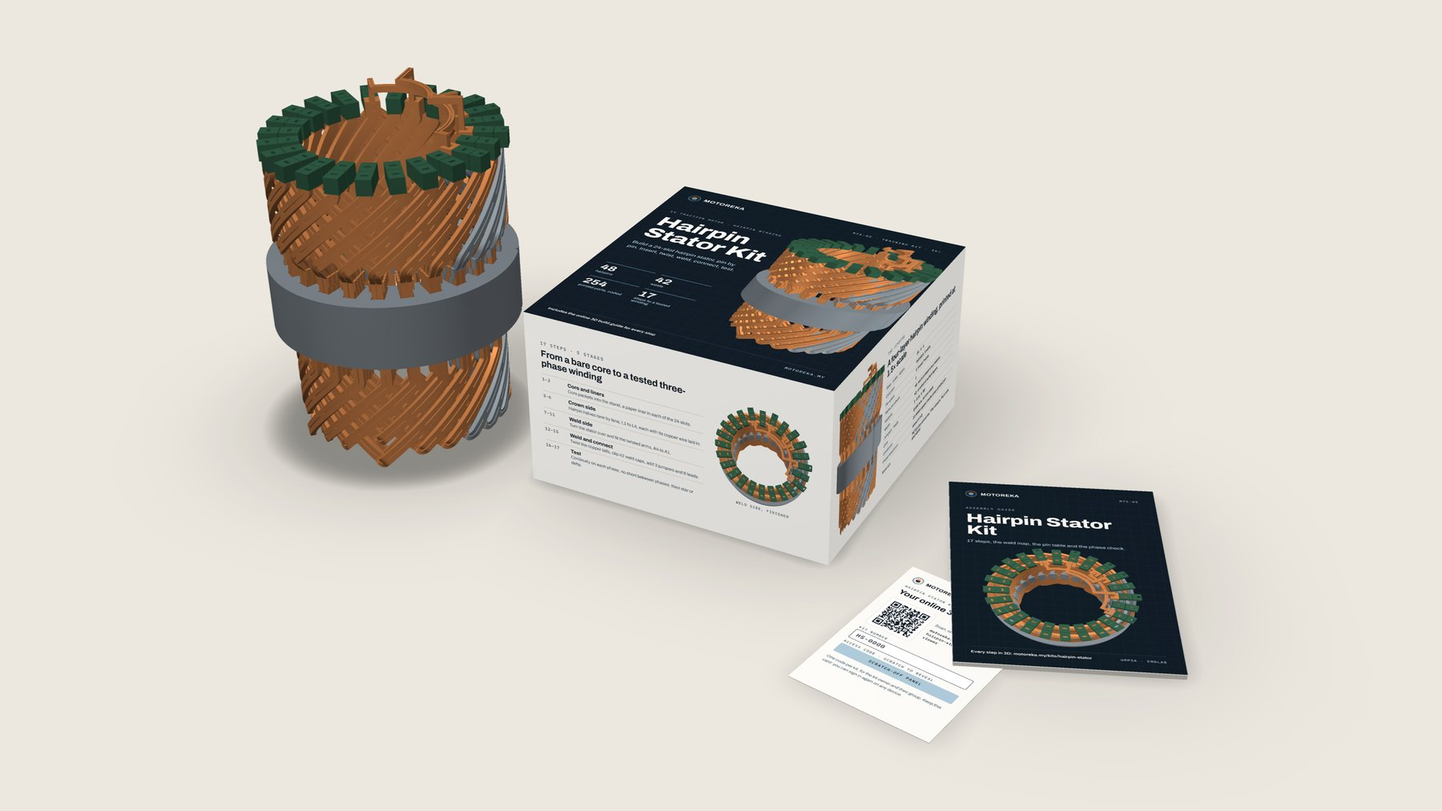
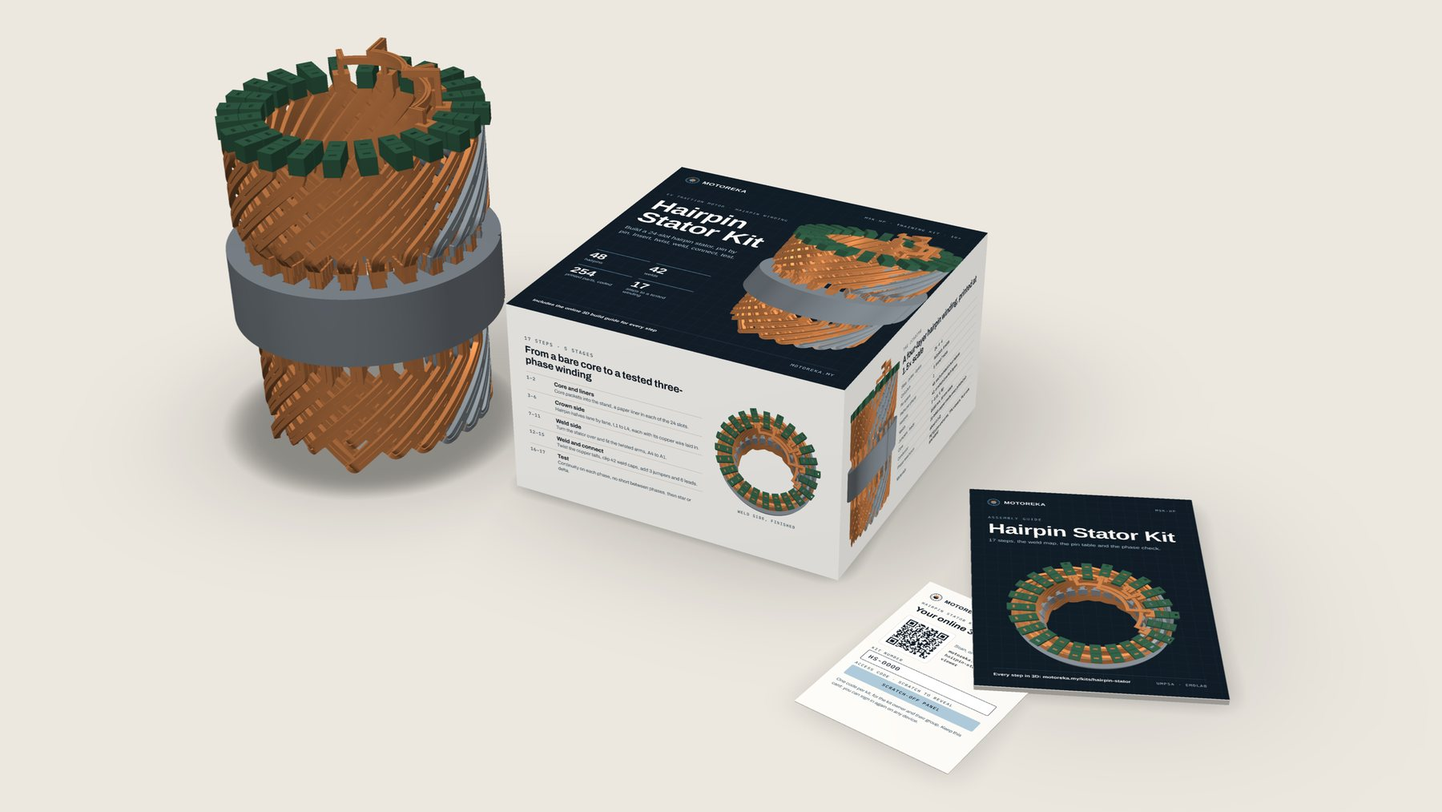
Hairpin Stator Kit: model code MSK-HP on the page and the box renders
Claude-Session: https://claude.ai/code/session_01Y4hstGBD1i6DuW8ib13ShV

Changed region(s): [[0.1244, 0.0306, 0.8711, 0.9496]]

diff --git a/kits/hairpin-stator/index.html b/kits/hairpin-stator/index.html
@@ -22,7 +22,7 @@
 <body><a class="skip" href="#main">Skip to content</a>
 <header class="rail"><div class="wrap"><a class="lockup" href="../../" aria-label="Motoreka home"><svg viewBox="0 0 100 100" width="38" height="38" aria-hidden="true" focusable="false"><circle cx="50" cy="50" r="45.5" fill="none" stroke="#5F8FA8" stroke-width="5"/><g stroke="#5F8FA8" stroke-width="4.6"><line x1="50.00" y1="19.00" x2="50.00" y2="12.00"/><line x1="65.50" y1="23.15" x2="69.00" y2="17.09"/><line x1="76.85" y1="34.50" x2="82.91" y2="31.00"/><line x1="81.00" y1="50.00" x2="88.00" y2="50.00"/><line x1="76.85" y1="65.50" x2="82.91" y2="69.00"/><line x1="65.50" y1="76.85" x2="69.00" y2="82.91"/><line x1="50.00" y1="81.00" x2="50.00" y2="88.00"/><line x1="34.50" y1="76.85" x2="31.00" y2="82.91"/><line x1="23.15" y1="65.50" x2="17.09" y2="69.00"/><line x1="19.00" y1="50.00" x2="12.00" y2="50.00"/><line x1="23.15" y1="34.50" x2="17.09" y2="31.00"/><line x1="34.50" y1="23.15" x2="31.00" y2="17.09"/></g><path d="M28 50a22 22 0 0 1 44 0z" fill="#C0703A"/><path d="M28 50a22 22 0 0 0 44 0z" fill="#5F8FA8"/></svg><span class="word"><b>MOTOREKA</b><span>MOTOR DESIGN · TRAINING · ENGINEERING</span></span></a>
 <nav class="nav" aria-label="Main"><a href="../../induction-motor-trainer/">Induction Motor Trainer</a><span class="nav-dd"><a href="../../ev-traction-motor/" aria-current="page">EV Traction Motor</a><button class="nav-dd-btn" type="button" aria-expanded="false" aria-controls="dd-ev" aria-label="EV Traction Motor: the modules"><svg viewBox="0 0 12 12" width="11" height="11" aria-hidden="true"><path d="M2.5 4.5 6 8l3.5-3.5" fill="none" stroke="currentColor" stroke-width="1.6"/></svg></button><span class="nav-dd-menu" id="dd-ev"><span class="nav-dd-list"><a href="../../ev-traction-motor/#m1"><span class="dd-n m1">M1</span><span>Design it</span><small>Sizing &amp; Design: from the vehicle brief to a FEMM check</small></a><a href="../../ev-traction-motor/hairpin/"><span class="dd-n m2">M2</span><span>Make the stator</span><small>Hairpin Manufacturing: from flat wire to a tested winding</small></a><a href="../../ev-traction-motor/rotor/"><span class="dd-n m3">M3</span><span>Make the rotor</span><small>Magnet Rotor Manufacturing: from oxide to a magnetised rotor</small></a><a href="../../ev-traction-motor/#modules" class="dd-all"><span class="dd-n all">ALL</span><span>The three modules</span></a></span></span></span><a href="../../tools/">Free tools</a><a href="../../work-with-us/">Work with us</a><a href="../../partners/">Partners</a><a class="nav-signin" href="../../sign-in/" title="Course participants and free accounts"><svg viewBox="0 0 16 16" width="13" height="13" aria-hidden="true"><rect x="3" y="7" width="10" height="7" rx="1.5" fill="none" stroke="currentColor" stroke-width="1.5"/><path d="M5.5 7V5a2.5 2.5 0 0 1 5 0v2" fill="none" stroke="currentColor" stroke-width="1.5"/></svg>Sign in</a></nav></div></header>
-<main id="main"><nav class="pathbar" aria-label="EV Traction Motor path"><div class="wrap"><a class="pb-line" href="../../ev-traction-motor/">EV Traction Motor path</a><ol><li><a class="" href="../../ev-traction-motor/#watch">1 Watch</a></li><li><a class="" href="../../ev-traction-motor/#practise">2 Practise</a></li><li><a class="cur" href="../../ev-traction-motor/#learn" aria-current="step">3 Learn in depth · you are here</a></li><li><a class="" href="../../ev-traction-motor/#work">4 Work with us</a></li></ol></div></nav><section class="pagehead"><div class="wrap"><span class="label">EV Traction Motor · Hands-on kit</span><h1>Hairpin Stator Kit</h1><p class="lede">Build a 24-slot, 4-pole hairpin stator from 254 printed parts, with copper wire inside every pin: insert, twist, weld, connect, then test each phase with a multimeter. Every part carries its code, and the online 3D guide plays every step.</p><div class="actions"><a class="btn copper" href="#get">Request a quote</a><a class="btn line" href="#preview">Try the first three steps in 3D</a><a class="btn line" href="viewer/">Kit owners: sign in</a></div></div></section><section class="section kit-hero"><div class="wrap"><figure class="kit-fig"><img src="images/kit-box.jpg" alt="The Hairpin Stator Kit box with the assembly guide, the access card and the assembled stator next to it" width="1800" height="1012"><figcaption><span class="mono">RENDER</span> The box, the assembly guide, the access card, and the stator you build, to scale. Grey pieces are the flexible TPU closers.</figcaption></figure></div></section><section class="section " id="build"><div class="wrap"><div class="section-head"><span class="label">What you build</span><h2>A four-layer hairpin winding, at 1.5× scale</h2><p>The layout of a hairpin traction stator: pins inserted from the crown side, legs twisted on the weld side, pairs joined, jumpers and leads to a terminal board. 17 steps in five stages.</p></div><div class="kit-two"><dl class="facts"><div><dt>Winding</dt><dd>24 slots, 4 poles, 4 layers, full pitch</dd></div><div><dt>Hairpins</dt><dd>48, each printed in two halves</dd></div><div><dt>Joints</dt><dd>42 welds, 3 jumpers, 6 leads</dd></div><div><dt>Core</dt><dd>Ø186 mm, 50 mm stack (1.5× scale)</dd></div><div><dt>Conductor</dt><dd>22 AWG copper inside every printed pin</dd></div><div><dt>Phase check</dt><dd>about 0.5 Ω per phase, no short between phases</dd></div></dl><ol class="kit-stages"><li><span class="sno">1–2</span><span><b>Core and liners</b><span>The core packets go into the stand; a paper liner goes into each of the 24 slots.</span></span></li><li><span class="sno">3–6</span><span><b>Crown side</b><span>Hairpin halves go in lane by lane, L1 to L4, each with its copper wire laid in.</span></span></li><li><span class="sno">7–11</span><span><b>Weld side</b><span>The stator is turned over and the twisted arms go on, A4 to A1.</span></span></li><li><span class="sno">12–15</span><span><b>Weld and connect</b><span>The copper tails are twisted and 42 weld caps clipped on; then 3 jumpers and 6 leads.</span></span></li><li><span class="sno">16–17</span><span><b>Test</b><span>Continuity on each phase, no short between phases, then star or delta at the terminal board.</span></span></li></ol></div></div></section><section class="section alt" id="preview"><div class="wrap"><div class="section-head"><span class="label">Kit Viewer · free preview</span><h2>Try the first three steps</h2><p>Turn the model, play each step piece by piece, and click a part for its code. The preview has steps 1 to 3 with their how-to clips (folding a liner, wiring a hairpin); kit owners sign in and play all 17.</p></div><div class="kit-frame"><iframe src="preview/" title="Hairpin Stator Kit viewer, preview: the first three steps in 3D" allow="fullscreen" loading="lazy"></iframe></div><div class="actions"><a class="btn line" href="preview/" target="_blank" rel="noopener">Open the preview full screen</a></div></div></section><section class="section " id="box"><div class="wrap"><div class="section-head"><span class="label">In the box</span><h2>254 printed parts, each engraved with its code</h2><p>The same code is engraved on the part, printed in the assembly guide and shown in the 3D viewer, so a student always knows which piece goes next.</p></div><div class="kit-two"><ul class="kit-parts"><li><span class="code">P5-L1 … P7-L4</span><b>Hairpin halves</b><span class="qty">×96</span><span class="note">12 shapes in 4 lanes; 12 in flexible TPU</span></li><li><span class="code">A1 … A4</span><b>Twisted arms</b><span class="qty">×96</span><span class="note">the leg ends on the weld side; 12 in TPU</span></li><li><span class="code">WC · LC</span><b>Weld caps and lead clips</b><span class="qty">×48</span><span class="note">42 caps over the twisted pairs, 6 clips</span></li><li><span class="code">JU · JV · JW</span><b>Jumpers</b><span class="qty">×3</span><span class="note">one per phase</span></li><li><span class="code">C1 · C2</span><b>Core packets</b><span class="qty">×2</span><span class="note">24 slots, Ø186 mm</span></li><li><span class="code">SR · SL</span><b>Stand ring and legs</b><span class="qty">×4</span><span class="note">holds the stator while you work</span></li><li><span class="code">CC · CW</span><b>Collars</b><span class="qty">×2</span><span class="note">crown side and weld side</span></li><li><span class="code">JD · JM</span><b>Liner jig</b><span class="qty">×2</span><span class="note">folds the 24 slot liners</span></li><li><span class="code">TB</span><b>Terminal board</b><span class="qty">×1</span><span class="note">star or delta</span></li></ul><div class="kit-also"><figure class="kit-fig"><img src="images/kit-guide-card.jpg" alt="The assembly guide and the access card with its QR code, kit number and scratch-off access code" width="1400" height="1050" loading="lazy"></figure><div><span class="label">Also in the box</span><ul class="ticks"><li>50 m of 22 AWG tinned copper wire</li><li>Insulation paper for the 24 liners</li><li>Terminal set: 6 M4 studs, nuts and washers, 6 ring lugs, 3 links</li><li>2 m of flexible wire in red, yellow and blue</li><li>The assembly guide: 17 steps, the weld map and the pin table</li><li>Your access card for the online 3D build guide</li></ul></div><div><span class="label">You will need</span><ul class="ticks"><li>A multimeter with a continuity beep</li><li>Flush cutters and fine pliers</li><li>A ring-lug crimper</li><li>Safety glasses</li></ul></div></div></div></div></section><section class="section alt" id="guide"><div class="wrap"><div class="section-head"><span class="label">Online 3D build guide</span><h2>Every step in 3D, for kit owners</h2></div><div class="kit-two"><figure class="kit-fig"><img src="images/kit-box-back.jpg" alt="The back of the box: the QR code to the build guide and the safety notes" width="1400" height="1050" loading="lazy"></figure><div class="prose"><p>The card in the box carries the kit number and an access code under a scratch-off panel. Sign in once and the full Kit Viewer opens: all 17 steps, piece by piece, with the parts for each step, the weld map and the phase colours, and how-to clips for the hand work: folding the liners, wiring the hairpins with their cut lengths, putting the arms on, twisting and capping the welds, the studs, lugs and leads on the terminal board, and the phase check. It runs in the browser on a laptop, a tablet or a phone.</p><p>One code per kit, for the owner and their group.</p><div class="actions"><a class="btn solid" href="viewer/">Kit owners: sign in</a></div></div></div></div></section><section class="section " id="course"><div class="wrap"><div class="section-head"><span class="label">With the course, or on its own</span><h2>Build the stator the lectures describe</h2></div><div class="items"><a class="item " href="../../ev-traction-motor/#learn"><span class="item-copy"><span class="label">EV Traction Motor · Step 3 · Module 2</span><b>Hairpin Manufacturing</b><span>Module 2 of the EV Traction Motor training follows a hairpin stator through the factory. Participants are encouraged to build the kit alongside it.</span></span></a><a class="item " href="../../ev-traction-motor/hairpin/"><span class="item-copy"><span class="label">EV Traction Motor · Step 1 · Free</span><b>How a hairpin stator is made</b><span>The article and the free Hairpin Motor Viewer: the same winding, from flat wire to a tested stator.</span><span class="chip ok">Free</span></span></a><a class="item " href="#get"><span class="item-copy"><span class="label">Labs and universities</span><b>Kits for a class</b><span>Several kits for a lab or a class, with the access codes in one list. Ask us for a quote.</span></span></a></div></div></section><section class="section "><div class="wrap"><div class="section-head"><span class="label">Questions</span><h2>Short answers</h2></div><div class="faq"><details><summary>Is it a working motor?</summary><p>No. It is the stator winding, built the way a hairpin stator is built, with copper wire inside the printed pins so every phase can be tested with a multimeter. Never connect it to mains or a power supply.</p></details><details><summary>Who is it for?</summary><p>Engineering students and teams learning how hairpin stators are designed and made, university and TVET labs, and anyone taking Module 2, Hairpin Manufacturing, of the EV Traction Motor training.</p></details><details><summary>Do I need the course?</summary><p>No. The kit comes with the assembly guide and the online 3D build guide. The course explains why the winding is laid out this way; the kit lets you build it with your hands.</p></details><details><summary>How long does the build take?</summary><p>It depends on the group. The guide splits it into 17 steps in five stages, so it can run over several sessions.</p></details><details><summary>How does the online build guide work?</summary><p>The card in the box carries the kit number and an access code. Sign in once at motoreka.my/kits/hairpin-stator/viewer/ and play every step on any device.</p></details></div></div></section><section class="section contact" id="get"><div class="wrap contact-grid"><div class="enq-side"><span class="label">Get the kit</span><h2>Request a quote</h2><p>Tell us how many kits you need and where they go. We reply within one working day.</p><a class="ccard" href="https://wa.me/60133902485"><span class="label">WhatsApp</span><b class="sel">+60 13-390 2485</b><span>Fastest for quick questions</span></a><a class="ccard" href="mailto:hello@motoreka.my"><span class="label">Email</span><b class="sel">hello@motoreka.my</b><span>For proposals and quotations</span></a></div><div class="enq-wrap"><div id="enq-status" role="status" aria-live="polite"></div><form id="enq" class="enq" action="https://formspree.io/f/xvgrqkdd" method="POST"><input type="hidden" name="_subject" value="Motoreka enquiry · Hairpin Stator Kit"><input type="hidden" name="form" value="hairpin-stator-kit"><input type="hidden" name="src" id="enq-src"><input type="text" name="_gotcha" class="hp" tabindex="-1" autocomplete="off" aria-hidden="true"><label>Name<input type="text" name="name" required autocomplete="name"></label><label>Email<input type="email" name="email" required autocomplete="email"></label><label>Organisation<input type="text" name="organisation" autocomplete="organization"></label><label>Number of kits<input type="number" name="kits" min="1" max="500" value="1" inputmode="numeric"></label><label class="full">Country or state for delivery<input type="text" name="delivery" autocomplete="country-name"></label><label class="full check"><input type="checkbox" name="course" value="yes"><span>I am taking, or plan to take, the EV Traction Motor Sizing &amp; Design course.</span></label><label class="full">Message<textarea name="message" rows="4" placeholder="Your class or lab, dates, anything that helps us reply."></textarea></label><div class="full send"><button type="submit" class="btn solid">Send</button><span>We use your details only to answer you.</span></div></form></div></div></section><section class="section next-sec" aria-label="Next step"><div class="wrap"><div class="next"><div><span class="label">EV Traction Motor · Step 3 · Course</span><h2>Learn why the winding is laid out this way</h2><p>Module 2 of the EV Traction Motor training, Hairpin Manufacturing, goes through the design and every step of the build, with the 3D model.</p></div><div class="actions"><a class="btn solid" href="../../ev-traction-motor/#learn">The course</a><a class="btn line" href="../../ev-traction-motor/hairpin/">The free article</a></div></div></div></section></main>
+<main id="main"><nav class="pathbar" aria-label="EV Traction Motor path"><div class="wrap"><a class="pb-line" href="../../ev-traction-motor/">EV Traction Motor path</a><ol><li><a class="" href="../../ev-traction-motor/#watch">1 Watch</a></li><li><a class="" href="../../ev-traction-motor/#practise">2 Practise</a></li><li><a class="cur" href="../../ev-traction-motor/#learn" aria-current="step">3 Learn in depth · you are here</a></li><li><a class="" href="../../ev-traction-motor/#work">4 Work with us</a></li></ol></div></nav><section class="pagehead"><div class="wrap"><span class="label">EV Traction Motor · Hands-on kit · MSK-HP</span><h1>Hairpin Stator Kit</h1><p class="lede">Build a 24-slot, 4-pole hairpin stator from 254 printed parts, with copper wire inside every pin: insert, twist, weld, connect, then test each phase with a multimeter. Every part carries its code, and the online 3D guide plays every step.</p><div class="actions"><a class="btn copper" href="#get">Request a quote</a><a class="btn line" href="#preview">Try the first three steps in 3D</a><a class="btn line" href="viewer/">Kit owners: sign in</a></div></div></section><section class="section kit-hero"><div class="wrap"><figure class="kit-fig"><img src="images/kit-box.jpg" alt="The Hairpin Stator Kit box with the assembly guide, the access card and the assembled stator next to it" width="1800" height="1012"><figcaption><span class="mono">RENDER</span> The box, the assembly guide, the access card, and the stator you build, to scale. Grey pieces are the flexible TPU closers.</figcaption></figure></div></section><section class="section " id="build"><div class="wrap"><div class="section-head"><span class="label">What you build</span><h2>A four-layer hairpin winding, at 1.5× scale</h2><p>The layout of a hairpin traction stator: pins inserted from the crown side, legs twisted on the weld side, pairs joined, jumpers and leads to a terminal board. 17 steps in five stages.</p></div><div class="kit-two"><dl class="facts"><div><dt>Winding</dt><dd>24 slots, 4 poles, 4 layers, full pitch</dd></div><div><dt>Hairpins</dt><dd>48, each printed in two halves</dd></div><div><dt>Joints</dt><dd>42 welds, 3 jumpers, 6 leads</dd></div><div><dt>Core</dt><dd>Ø186 mm, 50 mm stack (1.5× scale)</dd></div><div><dt>Conductor</dt><dd>22 AWG copper inside every printed pin</dd></div><div><dt>Phase check</dt><dd>about 0.5 Ω per phase, no short between phases</dd></div></dl><ol class="kit-stages"><li><span class="sno">1–2</span><span><b>Core and liners</b><span>The core packets go into the stand; a paper liner goes into each of the 24 slots.</span></span></li><li><span class="sno">3–6</span><span><b>Crown side</b><span>Hairpin halves go in lane by lane, L1 to L4, each with its copper wire laid in.</span></span></li><li><span class="sno">7–11</span><span><b>Weld side</b><span>The stator is turned over and the twisted arms go on, A4 to A1.</span></span></li><li><span class="sno">12–15</span><span><b>Weld and connect</b><span>The copper tails are twisted and 42 weld caps clipped on; then 3 jumpers and 6 leads.</span></span></li><li><span class="sno">16–17</span><span><b>Test</b><span>Continuity on each phase, no short between phases, then star or delta at the terminal board.</span></span></li></ol></div></div></section><section class="section alt" id="preview"><div class="wrap"><div class="section-head"><span class="label">Kit Viewer · free preview</span><h2>Try the first three steps</h2><p>Turn the model, play each step piece by piece, and click a part for its code. The preview has steps 1 to 3 with their how-to clips (folding a liner, wiring a hairpin); kit owners sign in and play all 17.</p></div><div class="kit-frame"><iframe src="preview/" title="Hairpin Stator Kit viewer, preview: the first three steps in 3D" allow="fullscreen" loading="lazy"></iframe></div><div class="actions"><a class="btn line" href="preview/" target="_blank" rel="noopener">Open the preview full screen</a></div></div></section><section class="section " id="box"><div class="wrap"><div class="section-head"><span class="label">In the box</span><h2>254 printed parts, each engraved with its code</h2><p>The same code is engraved on the part, printed in the assembly guide and shown in the 3D viewer, so a student always knows which piece goes next.</p></div><div class="kit-two"><ul class="kit-parts"><li><span class="code">P5-L1 … P7-L4</span><b>Hairpin halves</b><span class="qty">×96</span><span class="note">12 shapes in 4 lanes; 12 in flexible TPU</span></li><li><span class="code">A1 … A4</span><b>Twisted arms</b><span class="qty">×96</span><span class="note">the leg ends on the weld side; 12 in TPU</span></li><li><span class="code">WC · LC</span><b>Weld caps and lead clips</b><span class="qty">×48</span><span class="note">42 caps over the twisted pairs, 6 clips</span></li><li><span class="code">JU · JV · JW</span><b>Jumpers</b><span class="qty">×3</span><span class="note">one per phase</span></li><li><span class="code">C1 · C2</span><b>Core packets</b><span class="qty">×2</span><span class="note">24 slots, Ø186 mm</span></li><li><span class="code">SR · SL</span><b>Stand ring and legs</b><span class="qty">×4</span><span class="note">holds the stator while you work</span></li><li><span class="code">CC · CW</span><b>Collars</b><span class="qty">×2</span><span class="note">crown side and weld side</span></li><li><span class="code">JD · JM</span><b>Liner jig</b><span class="qty">×2</span><span class="note">folds the 24 slot liners</span></li><li><span class="code">TB</span><b>Terminal board</b><span class="qty">×1</span><span class="note">star or delta</span></li></ul><div class="kit-also"><figure class="kit-fig"><img src="images/kit-guide-card.jpg" alt="The assembly guide and the access card with its QR code, kit number and scratch-off access code" width="1400" height="1050" loading="lazy"></figure><div><span class="label">Also in the box</span><ul class="ticks"><li>50 m of 22 AWG tinned copper wire</li><li>Insulation paper for the 24 liners</li><li>Terminal set: 6 M4 studs, nuts and washers, 6 ring lugs, 3 links</li><li>2 m of flexible wire in red, yellow and blue</li><li>The assembly guide: 17 steps, the weld map and the pin table</li><li>Your access card for the online 3D build guide</li></ul></div><div><span class="label">You will need</span><ul class="ticks"><li>A multimeter with a continuity beep</li><li>Flush cutters and fine pliers</li><li>A ring-lug crimper</li><li>Safety glasses</li></ul></div></div></div></div></section><section class="section alt" id="guide"><div class="wrap"><div class="section-head"><span class="label">Online 3D build guide</span><h2>Every step in 3D, for kit owners</h2></div><div class="kit-two"><figure class="kit-fig"><img src="images/kit-box-back.jpg" alt="The back of the box: the QR code to the build guide and the safety notes" width="1400" height="1050" loading="lazy"></figure><div class="prose"><p>The card in the box carries the kit number and an access code under a scratch-off panel. Sign in once and the full Kit Viewer opens: all 17 steps, piece by piece, with the parts for each step, the weld map and the phase colours, and how-to clips for the hand work: folding the liners, wiring the hairpins with their cut lengths, putting the arms on, twisting and capping the welds, the studs, lugs and leads on the terminal board, and the phase check. It runs in the browser on a laptop, a tablet or a phone.</p><p>One code per kit, for the owner and their group.</p><div class="actions"><a class="btn solid" href="viewer/">Kit owners: sign in</a></div></div></div></div></section><section class="section " id="course"><div class="wrap"><div class="section-head"><span class="label">With the course, or on its own</span><h2>Build the stator the lectures describe</h2></div><div class="items"><a class="item " href="../../ev-traction-motor/#learn"><span class="item-copy"><span class="label">EV Traction Motor · Step 3 · Module 2</span><b>Hairpin Manufacturing</b><span>Module 2 of the EV Traction Motor training follows a hairpin stator through the factory. Participants are encouraged to build the kit alongside it.</span></span></a><a class="item " href="../../ev-traction-motor/hairpin/"><span class="item-copy"><span class="label">EV Traction Motor · Step 1 · Free</span><b>How a hairpin stator is made</b><span>The article and the free Hairpin Motor Viewer: the same winding, from flat wire to a tested stator.</span><span class="chip ok">Free</span></span></a><a class="item " href="#get"><span class="item-copy"><span class="label">Labs and universities</span><b>Kits for a class</b><span>Several kits for a lab or a class, with the access codes in one list. Ask us for a quote.</span></span></a></div></div></section><section class="section "><div class="wrap"><div class="section-head"><span class="label">Questions</span><h2>Short answers</h2></div><div class="faq"><details><summary>Is it a working motor?</summary><p>No. It is the stator winding, built the way a hairpin stator is built, with copper wire inside the printed pins so every phase can be tested with a multimeter. Never connect it to mains or a power supply.</p></details><details><summary>Who is it for?</summary><p>Engineering students and teams learning how hairpin stators are designed and made, university and TVET labs, and anyone taking Module 2, Hairpin Manufacturing, of the EV Traction Motor training.</p></details><details><summary>Do I need the course?</summary><p>No. The kit comes with the assembly guide and the online 3D build guide. The course explains why the winding is laid out this way; the kit lets you build it with your hands.</p></details><details><summary>How long does the build take?</summary><p>It depends on the group. The guide splits it into 17 steps in five stages, so it can run over several sessions.</p></details><details><summary>How does the online build guide work?</summary><p>The card in the box carries the kit number and an access code. Sign in once at motoreka.my/kits/hairpin-stator/viewer/ and play every step on any device.</p></details></div></div></section><section class="section contact" id="get"><div class="wrap contact-grid"><div class="enq-side"><span class="label">Get the kit</span><h2>Request a quote</h2><p>Tell us how many kits you need and where they go. We reply within one working day.</p><a class="ccard" href="https://wa.me/60133902485"><span class="label">WhatsApp</span><b class="sel">+60 13-390 2485</b><span>Fastest for quick questions</span></a><a class="ccard" href="mailto:hello@motoreka.my"><span class="label">Email</span><b class="sel">hello@motoreka.my</b><span>For proposals and quotations</span></a></div><div class="enq-wrap"><div id="enq-status" role="status" aria-live="polite"></div><form id="enq" class="enq" action="https://formspree.io/f/xvgrqkdd" method="POST"><input type="hidden" name="_subject" value="Motoreka enquiry · Hairpin Stator Kit"><input type="hidden" name="form" value="hairpin-stator-kit"><input type="hidden" name="src" id="enq-src"><input type="text" name="_gotcha" class="hp" tabindex="-1" autocomplete="off" aria-hidden="true"><label>Name<input type="text" name="name" required autocomplete="name"></label><label>Email<input type="email" name="email" required autocomplete="email"></label><label>Organisation<input type="text" name="organisation" autocomplete="organization"></label><label>Number of kits<input type="number" name="kits" min="1" max="500" value="1" inputmode="numeric"></label><label class="full">Country or state for delivery<input type="text" name="delivery" autocomplete="country-name"></label><label class="full check"><input type="checkbox" name="course" value="yes"><span>I am taking, or plan to take, the EV Traction Motor Sizing &amp; Design course.</span></label><label class="full">Message<textarea name="message" rows="4" placeholder="Your class or lab, dates, anything that helps us reply."></textarea></label><div class="full send"><button type="submit" class="btn solid">Send</button><span>We use your details only to answer you.</span></div></form></div></div></section><section class="section next-sec" aria-label="Next step"><div class="wrap"><div class="next"><div><span class="label">EV Traction Motor · Step 3 · Course</span><h2>Learn why the winding is laid out this way</h2><p>Module 2 of the EV Traction Motor training, Hairpin Manufacturing, goes through the design and every step of the build, with the 3D model.</p></div><div class="actions"><a class="btn solid" href="../../ev-traction-motor/#learn">The course</a><a class="btn line" href="../../ev-traction-motor/hairpin/">The free article</a></div></div></div></section></main>
 <footer class="foot"><div class="wrap">
 <div class="foot-brand"><span class="lockup"><svg viewBox="0 0 100 100" width="28" height="28" aria-hidden="true" focusable="false"><circle cx="50" cy="50" r="45.5" fill="none" stroke="#5F8FA8" stroke-width="5"/><g stroke="#5F8FA8" stroke-width="4.6"><line x1="50.00" y1="19.00" x2="50.00" y2="12.00"/><line x1="65.50" y1="23.15" x2="69.00" y2="17.09"/><line x1="76.85" y1="34.50" x2="82.91" y2="31.00"/><line x1="81.00" y1="50.00" x2="88.00" y2="50.00"/><line x1="76.85" y1="65.50" x2="82.91" y2="69.00"/><line x1="65.50" y1="76.85" x2="69.00" y2="82.91"/><line x1="50.00" y1="81.00" x2="50.00" y2="88.00"/><line x1="34.50" y1="76.85" x2="31.00" y2="82.91"/><line x1="23.15" y1="65.50" x2="17.09" y2="69.00"/><line x1="19.00" y1="50.00" x2="12.00" y2="50.00"/><line x1="23.15" y1="34.50" x2="17.09" y2="31.00"/><line x1="34.50" y1="23.15" x2="31.00" y2="17.09"/></g><path d="M28 50a22 22 0 0 1 44 0z" fill="#C0703A"/><path d="M28 50a22 22 0 0 0 44 0z" fill="#5F8FA8"/></svg><b>MOTOREKA</b></span><p>Motoreka is a product of Universiti Malaysia Pahang Al-Sultan Abdullah (UMPSA), developed at EMDLab, Faculty of Manufacturing and Mechatronic Engineering Technology.</p></div>
 <div class="foot-links"><span class="label">Learning paths</span><a href="../../induction-motor-trainer/">Induction Motor Trainer</a><a href="../../ev-traction-motor/">EV Traction Motor</a><a href="../../drone-propulsion/">Drone Propulsion · coming soon</a><a href="../../kids/pilot/">Motor Lab for children (STEM)</a></div>
